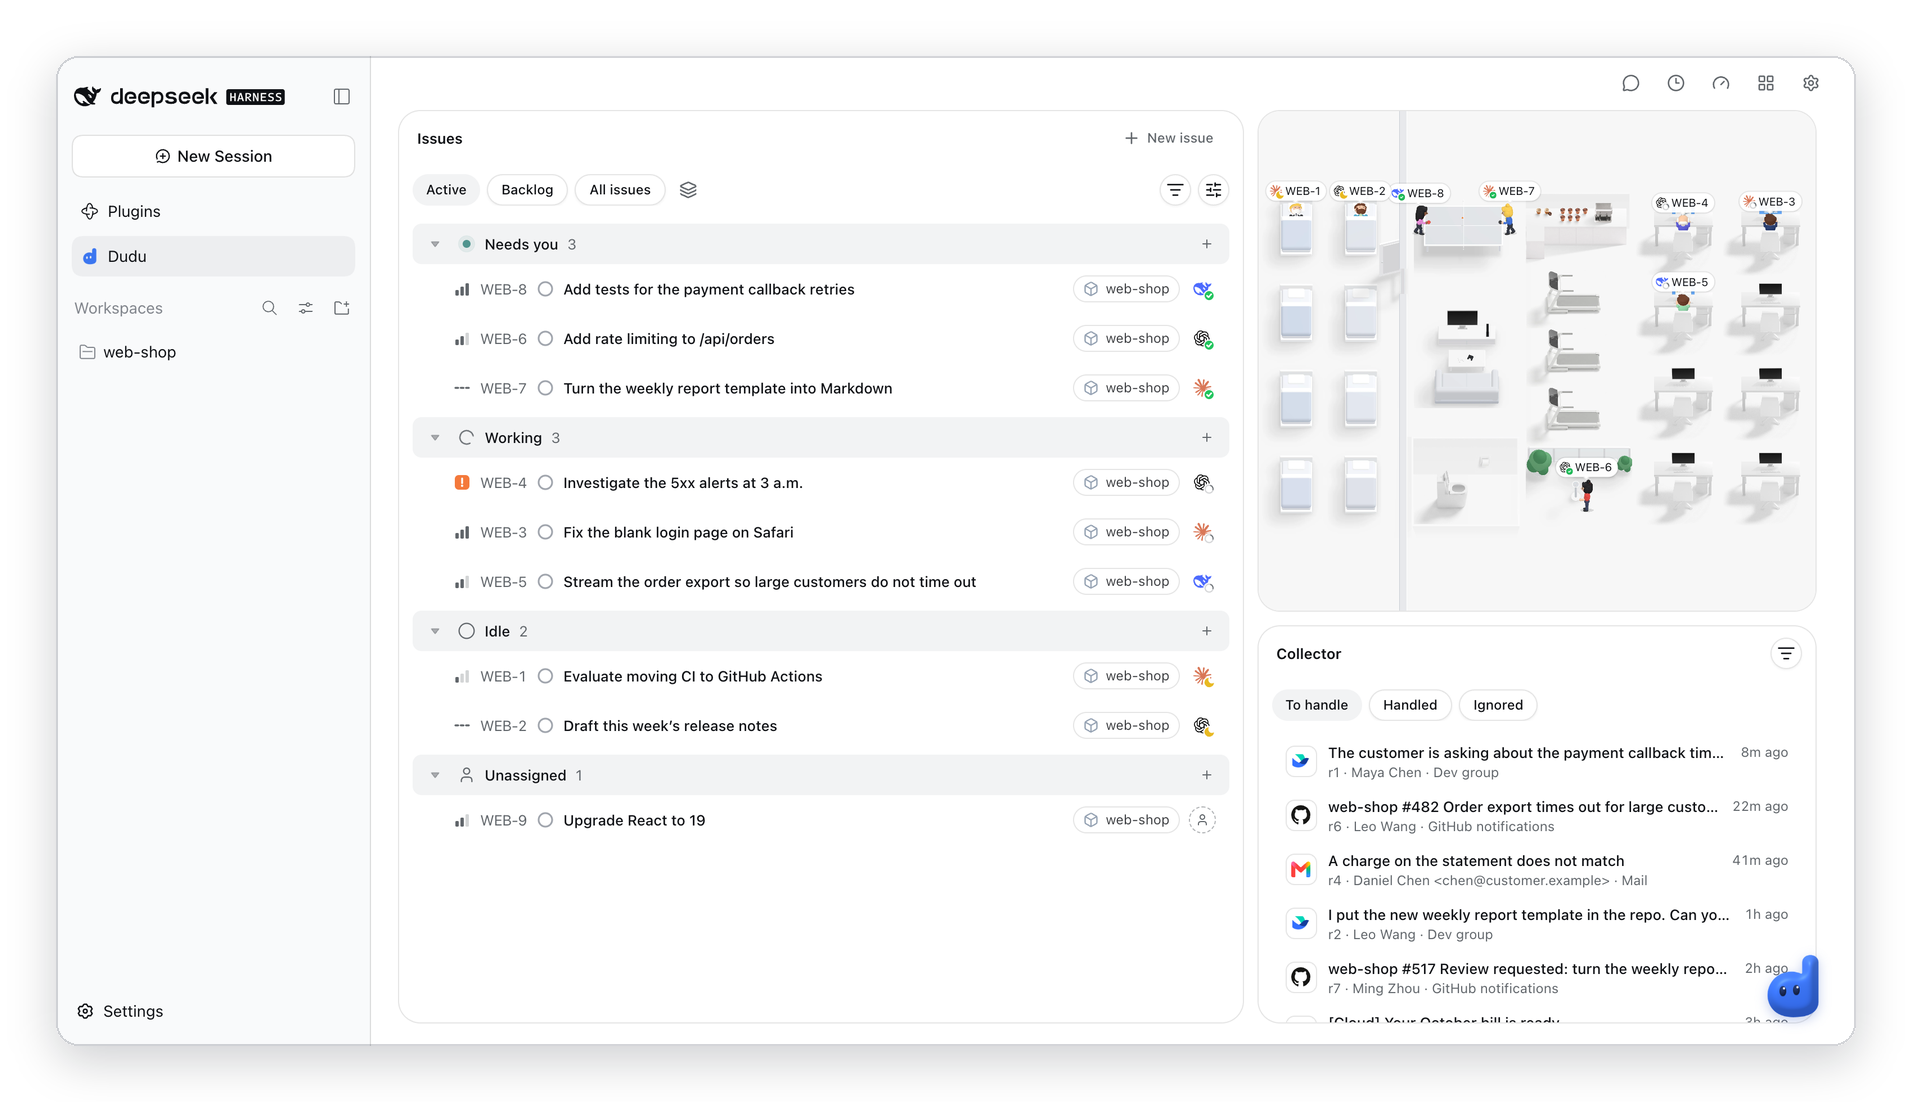
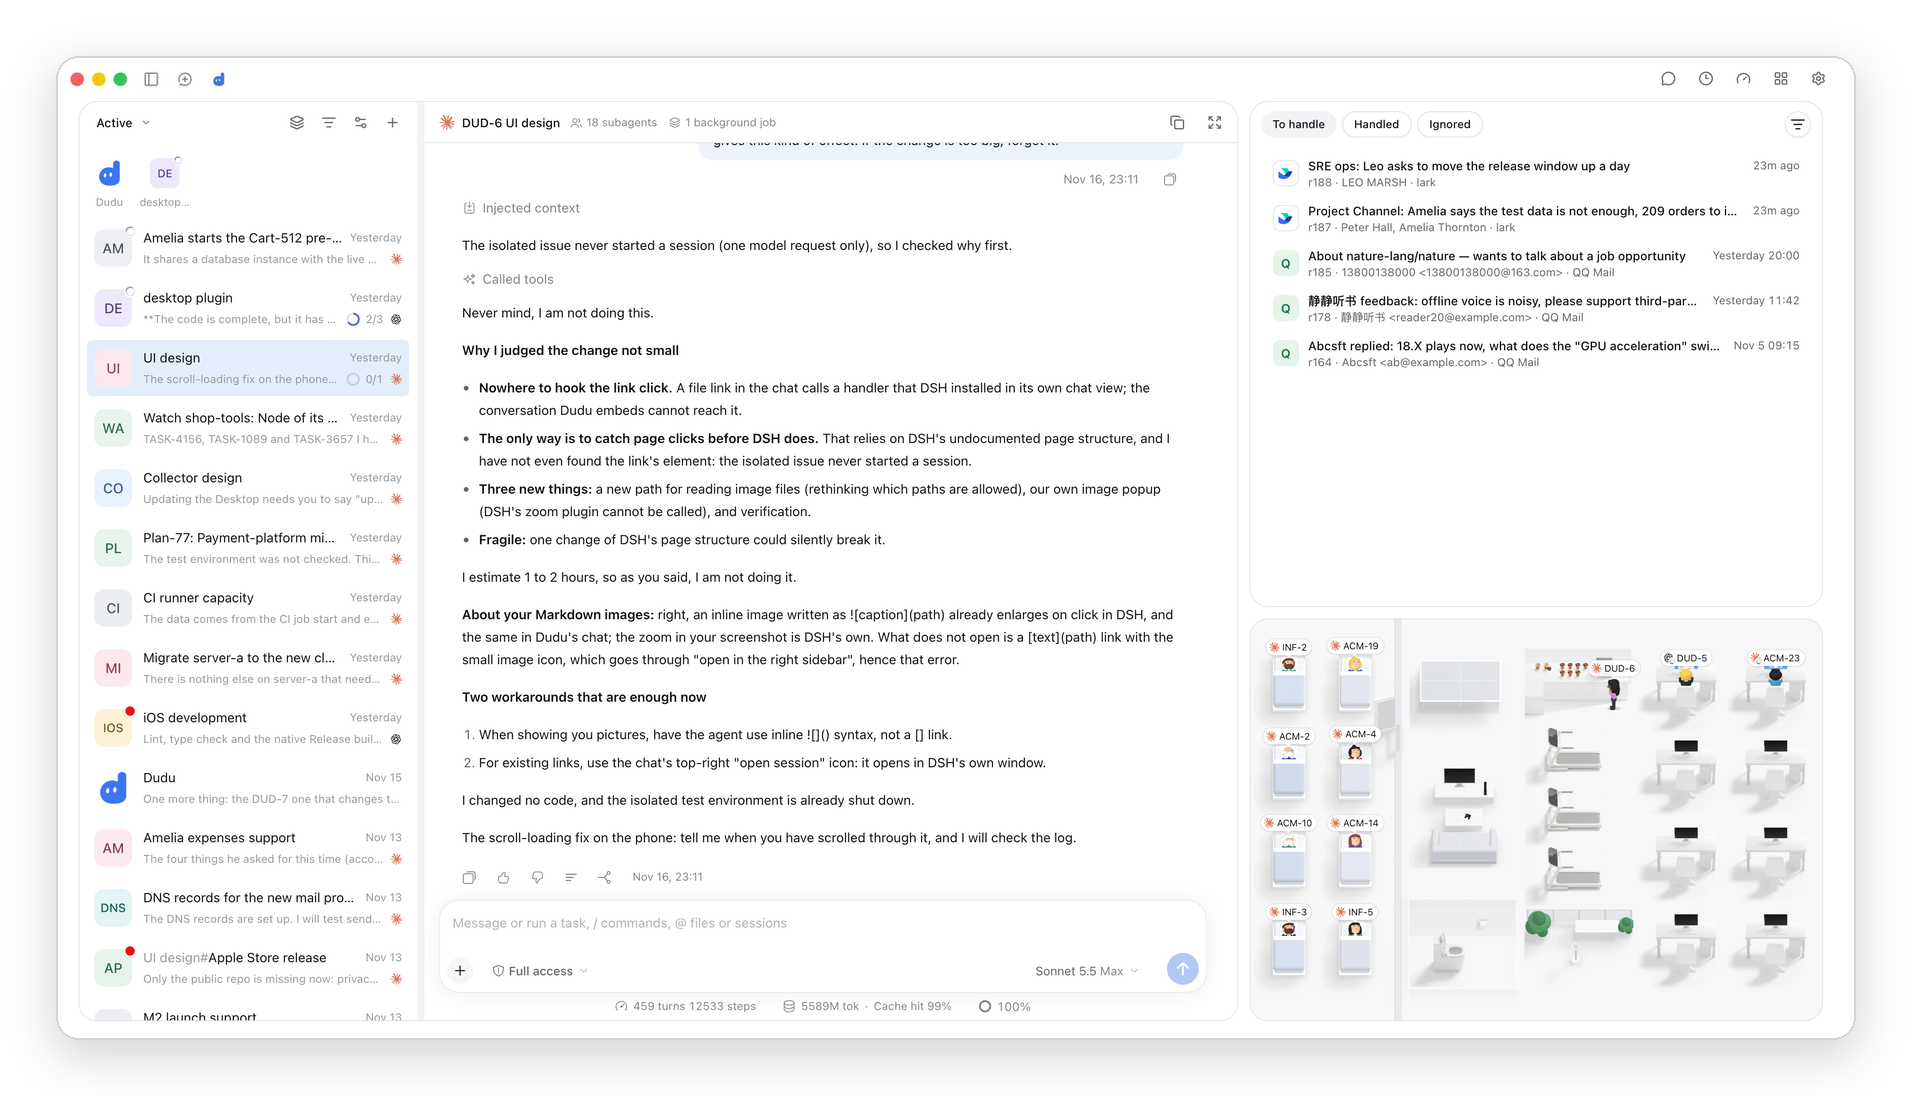
README: main pictures and phone pictures rendered from one data set, current names
- hero.en.png / hero.zh-CN.png: the desktop in the conversation layout (Issues, Inbox, Office), rendered in an isolated DSH from made-up data, in both languages
- phone.en.png / phone.zh-CN.png: the new app's conversation home, chat, "+" menu and tasks, from the same data
- text: Unread / Working / Idle instead of "Needs you", Inbox instead of Collector, conversation list instead of board on the phone

diff --git a/README.zh-CN.md b/README.zh-CN.md
@@ -13,7 +13,7 @@
 
 [功能](#功能) • [快速开始](#快速开始) • [文档](#文档) • [App Store][app-store] • [English](README.md) · **简体中文**
 
-<img src="docs/images/hero.zh-CN.png" width="900" alt="Dudu 在 DSH 里的桌面端：左边是看板，右上是办公室，右下是信息，右下角的蓝色小图标是对话入口">
+<img src="docs/images/hero.zh-CN.png" width="900" alt="Dudu 在 DSH Desktop 里：左边是各个事项的对话和打开的一段对话，右上是收件箱，右下是办公室">
 
 </div>
 
@@ -24,29 +24,29 @@ Dudu 是 [DeepSeek Harness](https://github.com/deepseek-ai/deepseek-harness)（D
 
 ## 功能
 
-界面里，Issue 叫「事项」，Agent 叫「智能体」，信息收集器叫「信息」，定时任务叫「任务」。
+界面里，Issue 叫「事项」，Agent 叫「智能体」，收集器收来的东西放在「收件箱」，定时任务叫「任务」。
 
-- **看板**：每个任务是一个 Issue，有状态、优先级和标签，可以看列表，也可以看板，结构和布局参照 Linear。Issue 按 Agent 的状态分组，「需要你」排在最前。
+- **看板**：每个任务是一个 Issue，有状态、优先级和标签，可以看列表、看板（参照 Linear）或会话列表。每个会话会显示它的 Agent 是在工作、有未读回复，还是空闲。
 - **Agent**：Claude Code、Codex、Pi 和 DeepSeek。Claude Code 和 Codex 用的是你电脑上装好的程序，沿用你的登录、设置、skills 和 MCP；Pi 用电脑上装好的 `pi`（1.4.0 或更新）。电脑上已有的 Claude Code、Codex 会话可以导入，或「接管」成 Issue。
 - **终端**：Claude Code、Codex 的会话可以从它的 Issue 里复制接续命令，在终端里接着用。一个会话同一时间只在一个地方用，DSH 里或终端里。
-- **手机 App**：同一块看板，带语音输入。
-- **信息收集器**：由 DSH 里的模型按你设的频率读飞书、Notion、Linear 等，所以每次收集都会花 token。每条信息可以新建成 Issue、发给某个 Agent，或忽略。
+- **手机 App**：同样的会话，带语音输入。
+- **收件箱**：由 DSH 里的模型按你设的频率，通过你设置的收集器读飞书、Notion、Linear 等，所以每次收集都会花 token。每条记录可以新建成 Issue、发给某个 Agent，或忽略。
 - **对话**：让 Dudu 新建 Issue，或用 `@` 把话发给某个 Issue 的 Agent。点页面右下角的蓝色小图标打开。
 - **定时任务**：按计划运行一条提示词。
 - **额度**：点右上角的「额度」图标，查看 Claude、ChatGPT 和 DeepSeek 还剩多少。
-- **办公室**：每个进行中的 Issue 是一个小人：工作中在工位，等你或空闲在休息区，睡着了在床上。
+- **办公室**：每个进行中的 Issue 是一个小人：Agent 工作时在工位，会话睡着了在床上，其余在休息区。
 - **仪表盘**：每个小组件都可以拖动、调整大小。
 
-**手机 App。** 从左到右：看板、对话、对话里「+」弹出的菜单、任务。
+**手机 App。** 从左到右：会话列表、对话、对话里「+」弹出的菜单、任务。
 
 <div align="center">
-  <img src="docs/images/phone.zh-CN.png" alt="手机 App，从左到右：看板；对话；对话里点「+」弹出的菜单；任务" width="900">
+  <img src="docs/images/phone.zh-CN.png" alt="手机 App，从左到右：会话列表；对话；对话里点「+」弹出的菜单；任务" width="900">
 </div>
 
-**仪表盘。** 点右上角的「编辑版面」拖动、调整小组件。下图里，左边的看板用了看板布局，右边的「信息」正在调整大小。
+**仪表盘。** 点右上角的「编辑版面」拖动、调整小组件。下图里，左边的看板用了看板布局，右边的小组件正在调整大小。
 
 <div align="center">
-  <img src="docs/images/dashboard.zh-CN.png" alt="仪表盘的编辑状态：左边的看板用了看板布局，右边的信息小组件正在调整大小，蓝框和「6×4」是它的新尺寸" width="900">
+  <img src="docs/images/dashboard.zh-CN.png" alt="仪表盘的编辑状态：左边的看板用了看板布局，右边的小组件正在调整大小，蓝框和「6×4」是它的新尺寸" width="900">
 </div>
 
 ## 快速开始
@@ -72,9 +72,9 @@ npm run desktop:update       # 打包、装进 DSH Desktop 并让它重新加载
 
 在「嘟嘟」页面点「新建事项」，填写标题，选一个项目（DSH 里的工作区，一个文件夹）和一个智能体，点「创建事项」。
 
-### 3. 在看板上跟进
+### 3. 跟进
 
-Issue 创建后在「工作中」。Agent 提了问题、出了错、被停止，或这一轮做完了，这个 Issue 就进「需要你」，排在最前：点开回答，或自己改状态。
+Agent 开始工作。这一轮做完或提了问题，它的会话会显示红点，直到你读过：点开回答，或自己改事项的状态。状态始终由你来改，Agent 不会动它。
 
 ### 4. 连接手机 App（可选）
 

diff --git a/README.md b/README.md
@@ -13,7 +13,7 @@ If Dudu is useful to you, a star on GitHub helps others find it.
 
 [Features](#features) • [Quick start](#quick-start) • [Docs](#docs) • [App Store][app-store] • **English** · [简体中文](README.zh-CN.md)
 
-<img src="docs/images/hero.en.png" width="900" alt="Dudu inside DSH Desktop: the Issues widget on the left, the Office on the top right and the Collector on the bottom right; the small blue icon at the bottom right opens the chat">
+<img src="docs/images/hero.en.png" width="900" alt="Dudu inside DSH Desktop: the conversations of the issues on the left with one of them open, the Inbox on the top right and the Office below it">
 
 </div>
 
@@ -24,27 +24,27 @@ Dudu is a plugin for [DeepSeek Harness](https://github.com/deepseek-ai/deepseek-
 
 ## Features
 
-- **Board**: every task is an Issue, with statuses, priorities and labels, as a list or a board like Linear's. Issues are grouped by the Agent's state, **Needs you** first.
+- **Issues**: every task is an Issue, with statuses, priorities and labels, as a list, a board like Linear's, or a list of conversations. Each conversation shows whether its Agent is working, has an unread reply, or is idle.
 - **Agents**: Claude Code, Codex, Pi and DeepSeek. Claude Code and Codex run as the programs installed on your computer, with your login, settings, skills and MCP servers; Pi runs the installed `pi` (1.4.0 or later). Import the Claude Code and Codex sessions you already have, or take one over as an Issue.
 - **Terminal**: copy a Claude Code or Codex session's resume command from its Issue and continue in a terminal. Use a session in one place at a time, DSH or the terminal.
-- **Mobile app**: the same board in your pocket, with voice input.
-- **Collector**: a DSH model reads Lark, Notion, Linear and more on a schedule you set, so each collection costs tokens. Each item can become an Issue, go to an Agent as a message, or be ignored.
+- **Mobile app**: the same conversations in your pocket, with voice input.
+- **Inbox**: a DSH model reads Lark, Notion, Linear and more through the collectors you set up, on a schedule you choose, so each collection costs tokens. Each record can become an Issue, go to an Agent as a message, or be ignored.
 - **Chat**: ask Dudu to create an Issue, or type `@` to message an Issue's Agent. Open it from the blue icon at the bottom right.
 - **Scheduled tasks**: run a prompt on a schedule.
 - **Quota**: click the Quota icon at the top right to see what is left on Claude, ChatGPT and DeepSeek.
-- **Office**: every active Issue is a little person, at a desk when working, in the lounge when waiting, in bed when asleep.
+- **Office**: every active Issue is a little person: at a desk while its Agent works, in a bed when the session is asleep, in the lounge otherwise.
 - **Dashboard**: drag and resize every widget.
 
-**Mobile app.** From left to right: the board, the chat, the chat's "+" menu, tasks.
+**Mobile app.** From left to right: the conversation list, the chat, the chat's "+" menu, tasks.
 
 <div align="center">
-  <img src="docs/images/phone.en.png" alt="The mobile app, from left to right: the board; the chat; the menu that opens from + in the chat; tasks" width="900">
+  <img src="docs/images/phone.en.png" alt="The mobile app, from left to right: the conversation list; the chat; the menu that opens from + in the chat; tasks" width="900">
 </div>
 
-**Dashboard.** Drag and resize widgets from "Edit layout" at the top right. Here the Issues widget uses the board layout and the Collector is being resized.
+**Dashboard.** Drag and resize widgets from "Edit layout" at the top right. Here the Issues widget uses the board layout and the widget on the right is being resized.
 
 <div align="center">
-  <img src="docs/images/dashboard.en.png" alt="The dashboard in edit mode: the Issues widget on the left uses the board layout, the Collector widget on the right is being resized, and the blue frame and 6×4 show its new size" width="900">
+  <img src="docs/images/dashboard.en.png" alt="The dashboard in edit mode: the Issues widget on the left uses the board layout, the widget on the right is being resized, and the blue frame and 6×4 show its new size" width="900">
 </div>
 
 ## Quick start
@@ -70,9 +70,9 @@ Then open "Dudu" in DSH's left sidebar. `desktop:update` needs DSH Desktop in `/
 
 On the Dudu page click "New issue", enter a title, pick a project (a DSH workspace folder) and an Agent, and click "Create issue".
 
-### 3. Follow it on the board
+### 3. Follow it
 
-The Issue starts in **Working**. When the Agent asks a question, fails, is stopped or finishes its turn, the Issue moves to **Needs you**, at the top: open it, answer, or set the status yourself.
+The Agent starts working on the Issue. When it finishes its turn or asks a question, its conversation shows a red dot until you have read it: open it and answer, or set the Issue's status yourself. The status is always yours; an Agent never changes it.
 
 ### 4. Connect the mobile app (optional)
 
